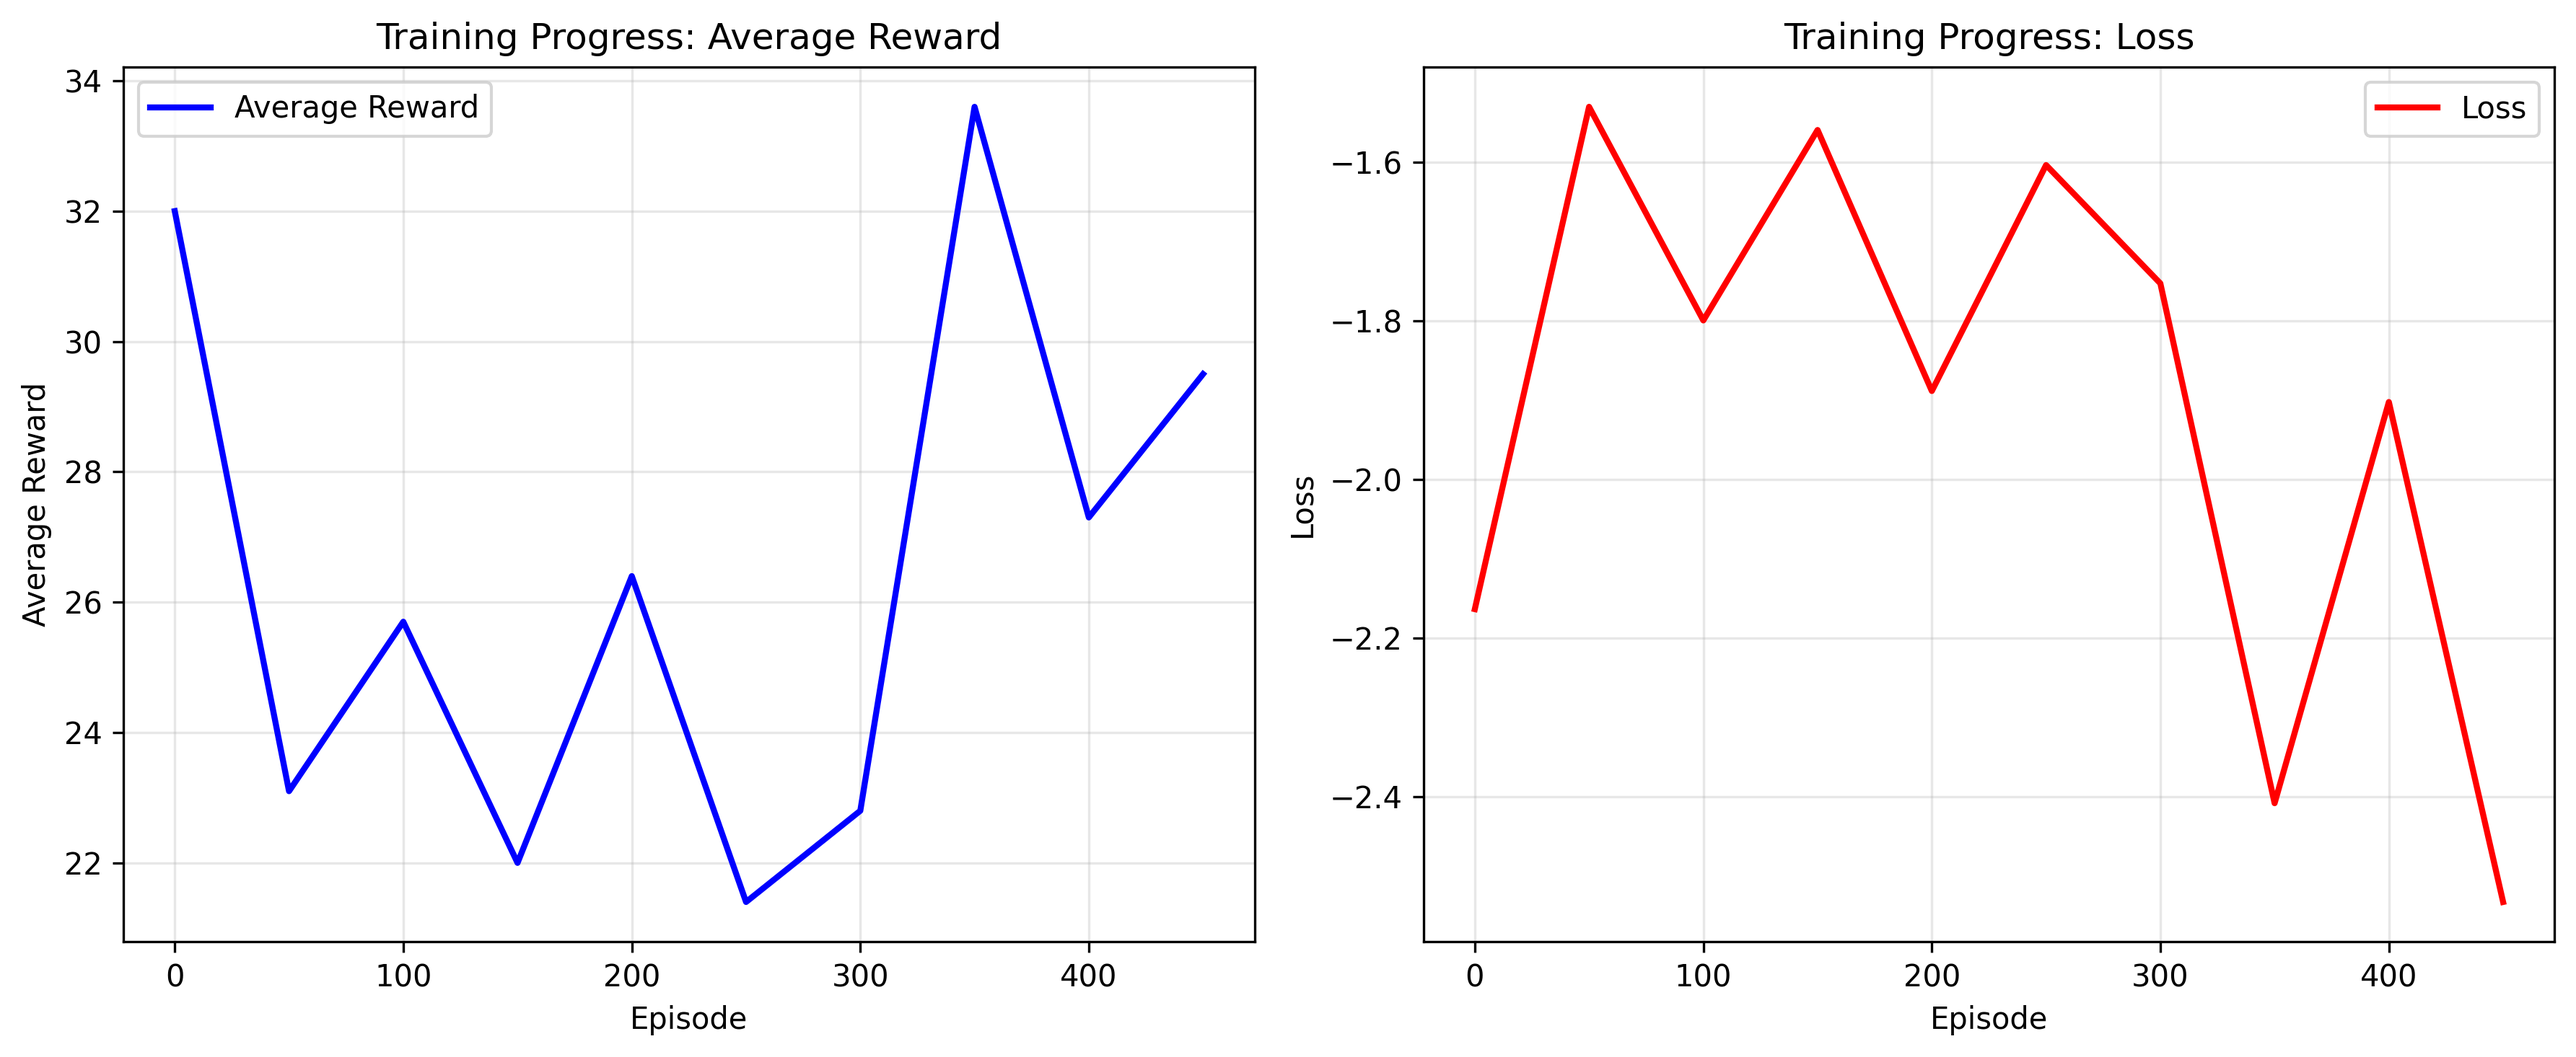
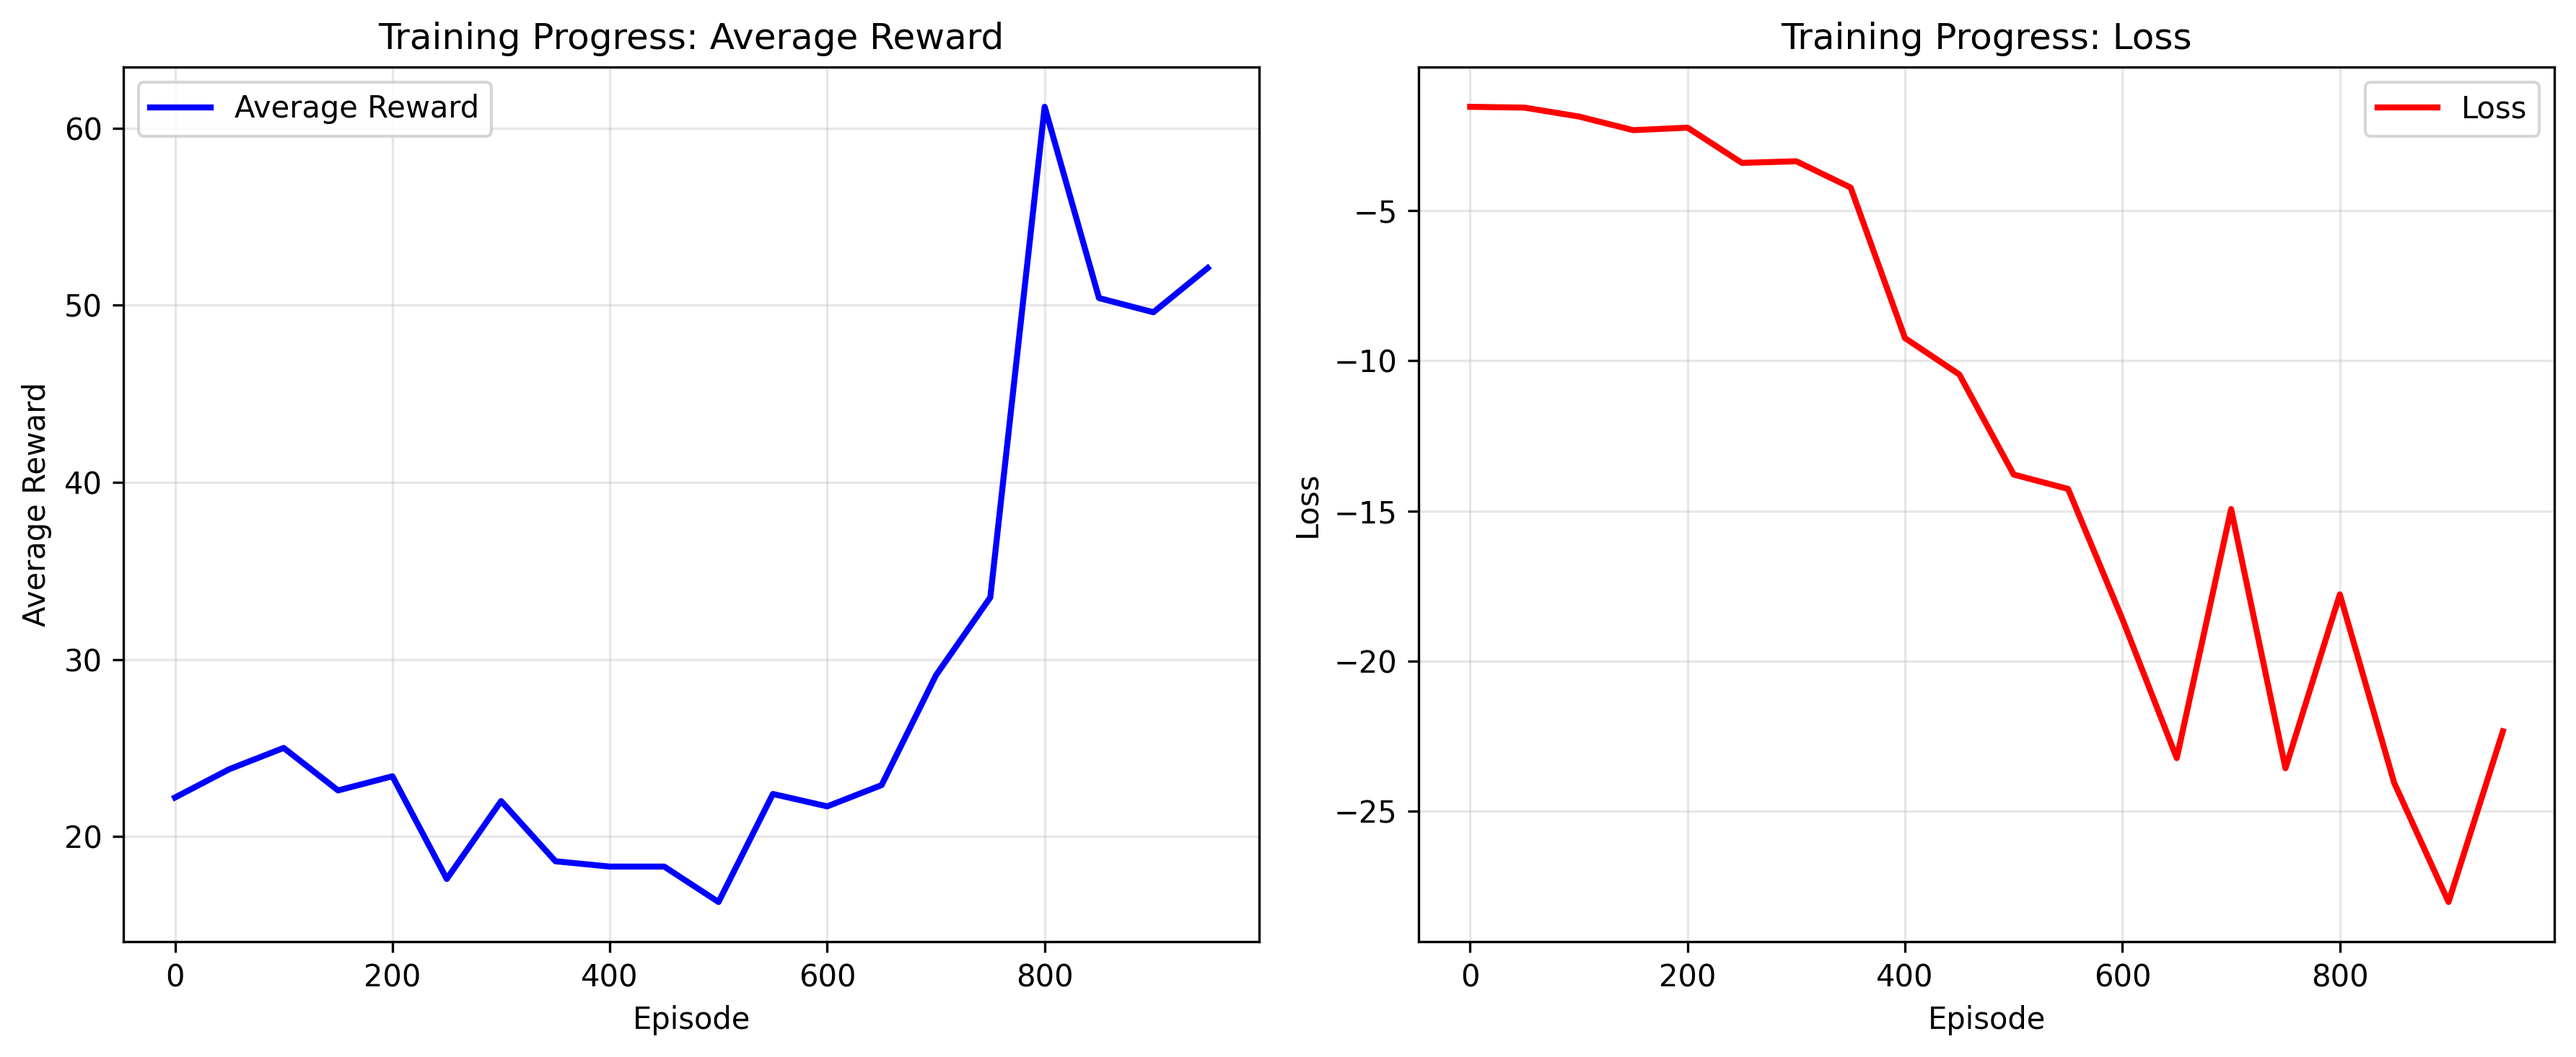
use he initialization

diff --git a/policy.py b/policy.py
@@ -3,17 +3,18 @@ import jax.numpy as jnp
 
 
 def init_policy_params(key, state_dim, action_dim, hidden_dim=128):
-    k1, k2 = jax.random.split(key)
+    k1, k2, k3 = jax.random.split(key, 3)
     params = {
-        # Xavier/Glorot initialization: sqrt(2/n) where n is the number of inputs
+        # He initialization: sqrt(2/fan_in) for ReLU networks
         "W1": jax.random.normal(k1, (state_dim, hidden_dim))
-        * jnp.sqrt(2.0 / state_dim)
-        * 0.1,
+        * jnp.sqrt(2.0 / state_dim),
         "b1": jax.numpy.zeros((hidden_dim,)),
-        "W2": jax.random.normal(k2, (hidden_dim, action_dim))
-        * jnp.sqrt(2.0 / hidden_dim)
-        * 0.1,
-        "b2": jax.numpy.zeros((action_dim,)),
+        "W2": jax.random.normal(k2, (hidden_dim, hidden_dim))
+        * jnp.sqrt(2.0 / hidden_dim),
+        "b2": jax.numpy.zeros((hidden_dim,)),
+        "W3": jax.random.normal(k3, (hidden_dim, action_dim))
+        * jnp.sqrt(2.0 / hidden_dim),
+        "b3": jax.numpy.zeros((action_dim,)),
     }
     return params
 
@@ -22,4 +23,7 @@ def policy_forward(params, state):
     x = jnp.dot(state, params["W1"]) + params["b1"]
     x = jax.nn.relu(x)
     x = jnp.dot(x, params["W2"]) + params["b2"]
+    x = jax.nn.relu(x)
+    x = jnp.dot(x, params["W3"]) + params["b3"]
+
     return x

diff --git a/main.py b/main.py
@@ -75,7 +75,7 @@ def main() -> Optional[Tuple[Dict[str, jnp.ndarray], List[float], List[float]]]:
     parser.add_argument(
         "--episodes-per-update", type=int, default=50, help="Episodes per policy update"
     )
-    parser.add_argument("--lr", type=float, default=0.001, help="Learning rate")
+    parser.add_argument("--lr", type=float, default=0.01, help="Learning rate")
     parser.add_argument("--gamma", type=float, default=0.99, help="Discount factor")
     parser.add_argument(
         "--max-steps", type=int, default=500, help="Maximum steps per episode"

diff --git a/README.md b/README.md
@@ -11,9 +11,9 @@ This implementation demonstrates how various enhancements to vanilla policy grad
 - **Gradient clipping** for stability
 - **Per-episode normalization** for fair comparison
 
-<!-- ### Training Results
+### Training Results
 
-![training results](images/vpg_comparison.png) -->
+![training results](images/vpg_comparison.png)
 
 ### Run
 
